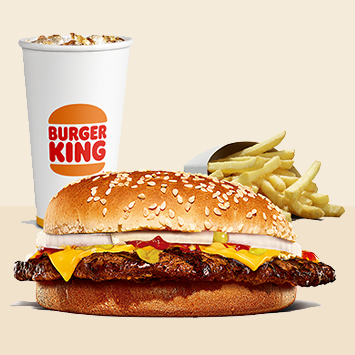
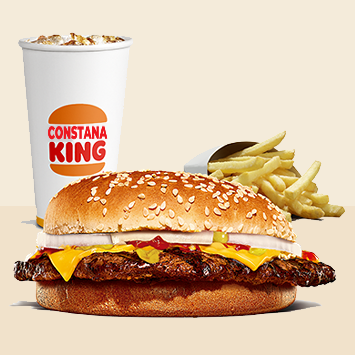
CONSTANA King

Changed region(s): [[0.1239, 0.3408, 0.3099, 0.4028]]

diff --git a/docs/06_web_comidasLaboratorio/index.html b/docs/06_web_comidasLaboratorio/index.html
@@ -8,7 +8,7 @@
     <meta http-equiv="X-UA-Compatible" content="IE=edge">
     <meta name="viewport" content="width=device-width, initial-scale=1.0">
     <title>CONSTANA King</title>
-    <link rel="icon" href="./img/logo_bk.png" type="image/x-icon">
+    <link rel="icon" href="./img/logo_ck.png" type="image/x-icon">
     <!-- <link rel="stylesheet" href="./styles/reset.css"> -->
     <link rel="stylesheet" href="./styles/index.css">
 </head>
@@ -24,7 +24,7 @@
             </ul>
         </nav>
         <div>
-            <img src="./img/logo_bk.png" alt="Logo de Burger King">
+            <img src="./img/logo_ck.png" alt="Logo de Burger King">
         </div>
     </header>
     <aside>
@@ -50,7 +50,7 @@
             <div class="card">
                 <div class="card-img">
                     <p class="price">$200</p>
-                    <img src="./img/products/product_icecream_01.png" alt="">
+                    <img src="./img/products/product_icecream_01.png" alt="Cono de Helado">
                 </div>
                 <div class="card-text">
                     <p>Cono de Helado</p>
@@ -60,7 +60,7 @@
             <div class="card">
                 <div class="card-img">
                     <p class="price">$390</p>
-                    <img src="./img/products/product_icecream_02.jpg" alt="">
+                    <img src="./img/products/product_icecream_02.jpg" alt="Sundae c/ Salsa">
                 </div>
                 <div class="card-text">
                     <p>Sundae c/ Salsa</p>
@@ -70,7 +70,7 @@
             <div class="card">
                 <div class="card-img">
                     <p class="price">$650</p>
-                    <img src="./img/products/product_icecream_03.png" alt="">
+                    <img src="./img/products/product_icecream_03.png" alt="King Mix Oreo">
                 </div>
                 <div class="card-text">
                     <p>King Mix Oreo</p>
@@ -82,7 +82,7 @@
             <div class="card">
                 <div class="card-img">
                     <p class="price">$500</p>
-                    <img src="./img/products/product_aditional_01.png" alt="">
+                    <img src="./img/products/product_aditional_01.png" alt="Aros de Cebolla">
                 </div>
                 <div class="card-text">
                     <p>Aros de Cebolla</p>
@@ -92,7 +92,7 @@
             <div class="card">
                 <div class="card-img">
                     <p class="price">$500</p>
-                    <img src="./img/products/product_aditional_02.png" alt="">
+                    <img src="./img/products/product_aditional_02.png" alt="Nuggets de Pollo">
                 </div>
                 <div class="card-text">
                     <p>Nuggets de Pollo</p>
@@ -102,7 +102,7 @@
             <div class="card">
                 <div class="card-img">
                     <p class="price">$650</p>
-                    <img src="./img/products/product_aditional_03.png" alt="">
+                    <img src="./img/products/product_aditional_03.png" alt="Ensalada Gourmet">
                 </div>
                 <div class="card-text">
                     <p>Ensalada Gourmet</p>
@@ -114,7 +114,7 @@
             <div class="card">
                 <div class="card-img">
                     <p class="price">$1100</p>
-                    <img src="./img/products/product_combo_01.png" alt="">
+                    <img src="./img/products/product_combo_01.png" alt="Combo Long">
                 </div>
                 <div class="card-text">
                     <p>Combo Long</p>
@@ -124,7 +124,7 @@
             <div class="card">
                 <div class="card-img">
                     <p class="price">$1900</p>
-                    <img src="./img/products/product_combo_02.png" alt="">
+                    <img src="./img/products/product_combo_02.png" alt="Combo Queso">
                 </div>
                 <div class="card-text">
                     <p>Combo Queso</p>
@@ -134,7 +134,7 @@
             <div class="card">
                 <div class="card-img">
                     <p class="price">$2700</p>
-                    <img src="./img/products/product_combo_03.jpg" alt="">
+                    <img src="./img/products/product_combo_03.jpg" alt="Combo Cuadruple">
                 </div>
                 <div class="card-text">
                     <p>Combo Cuadruple</p>
